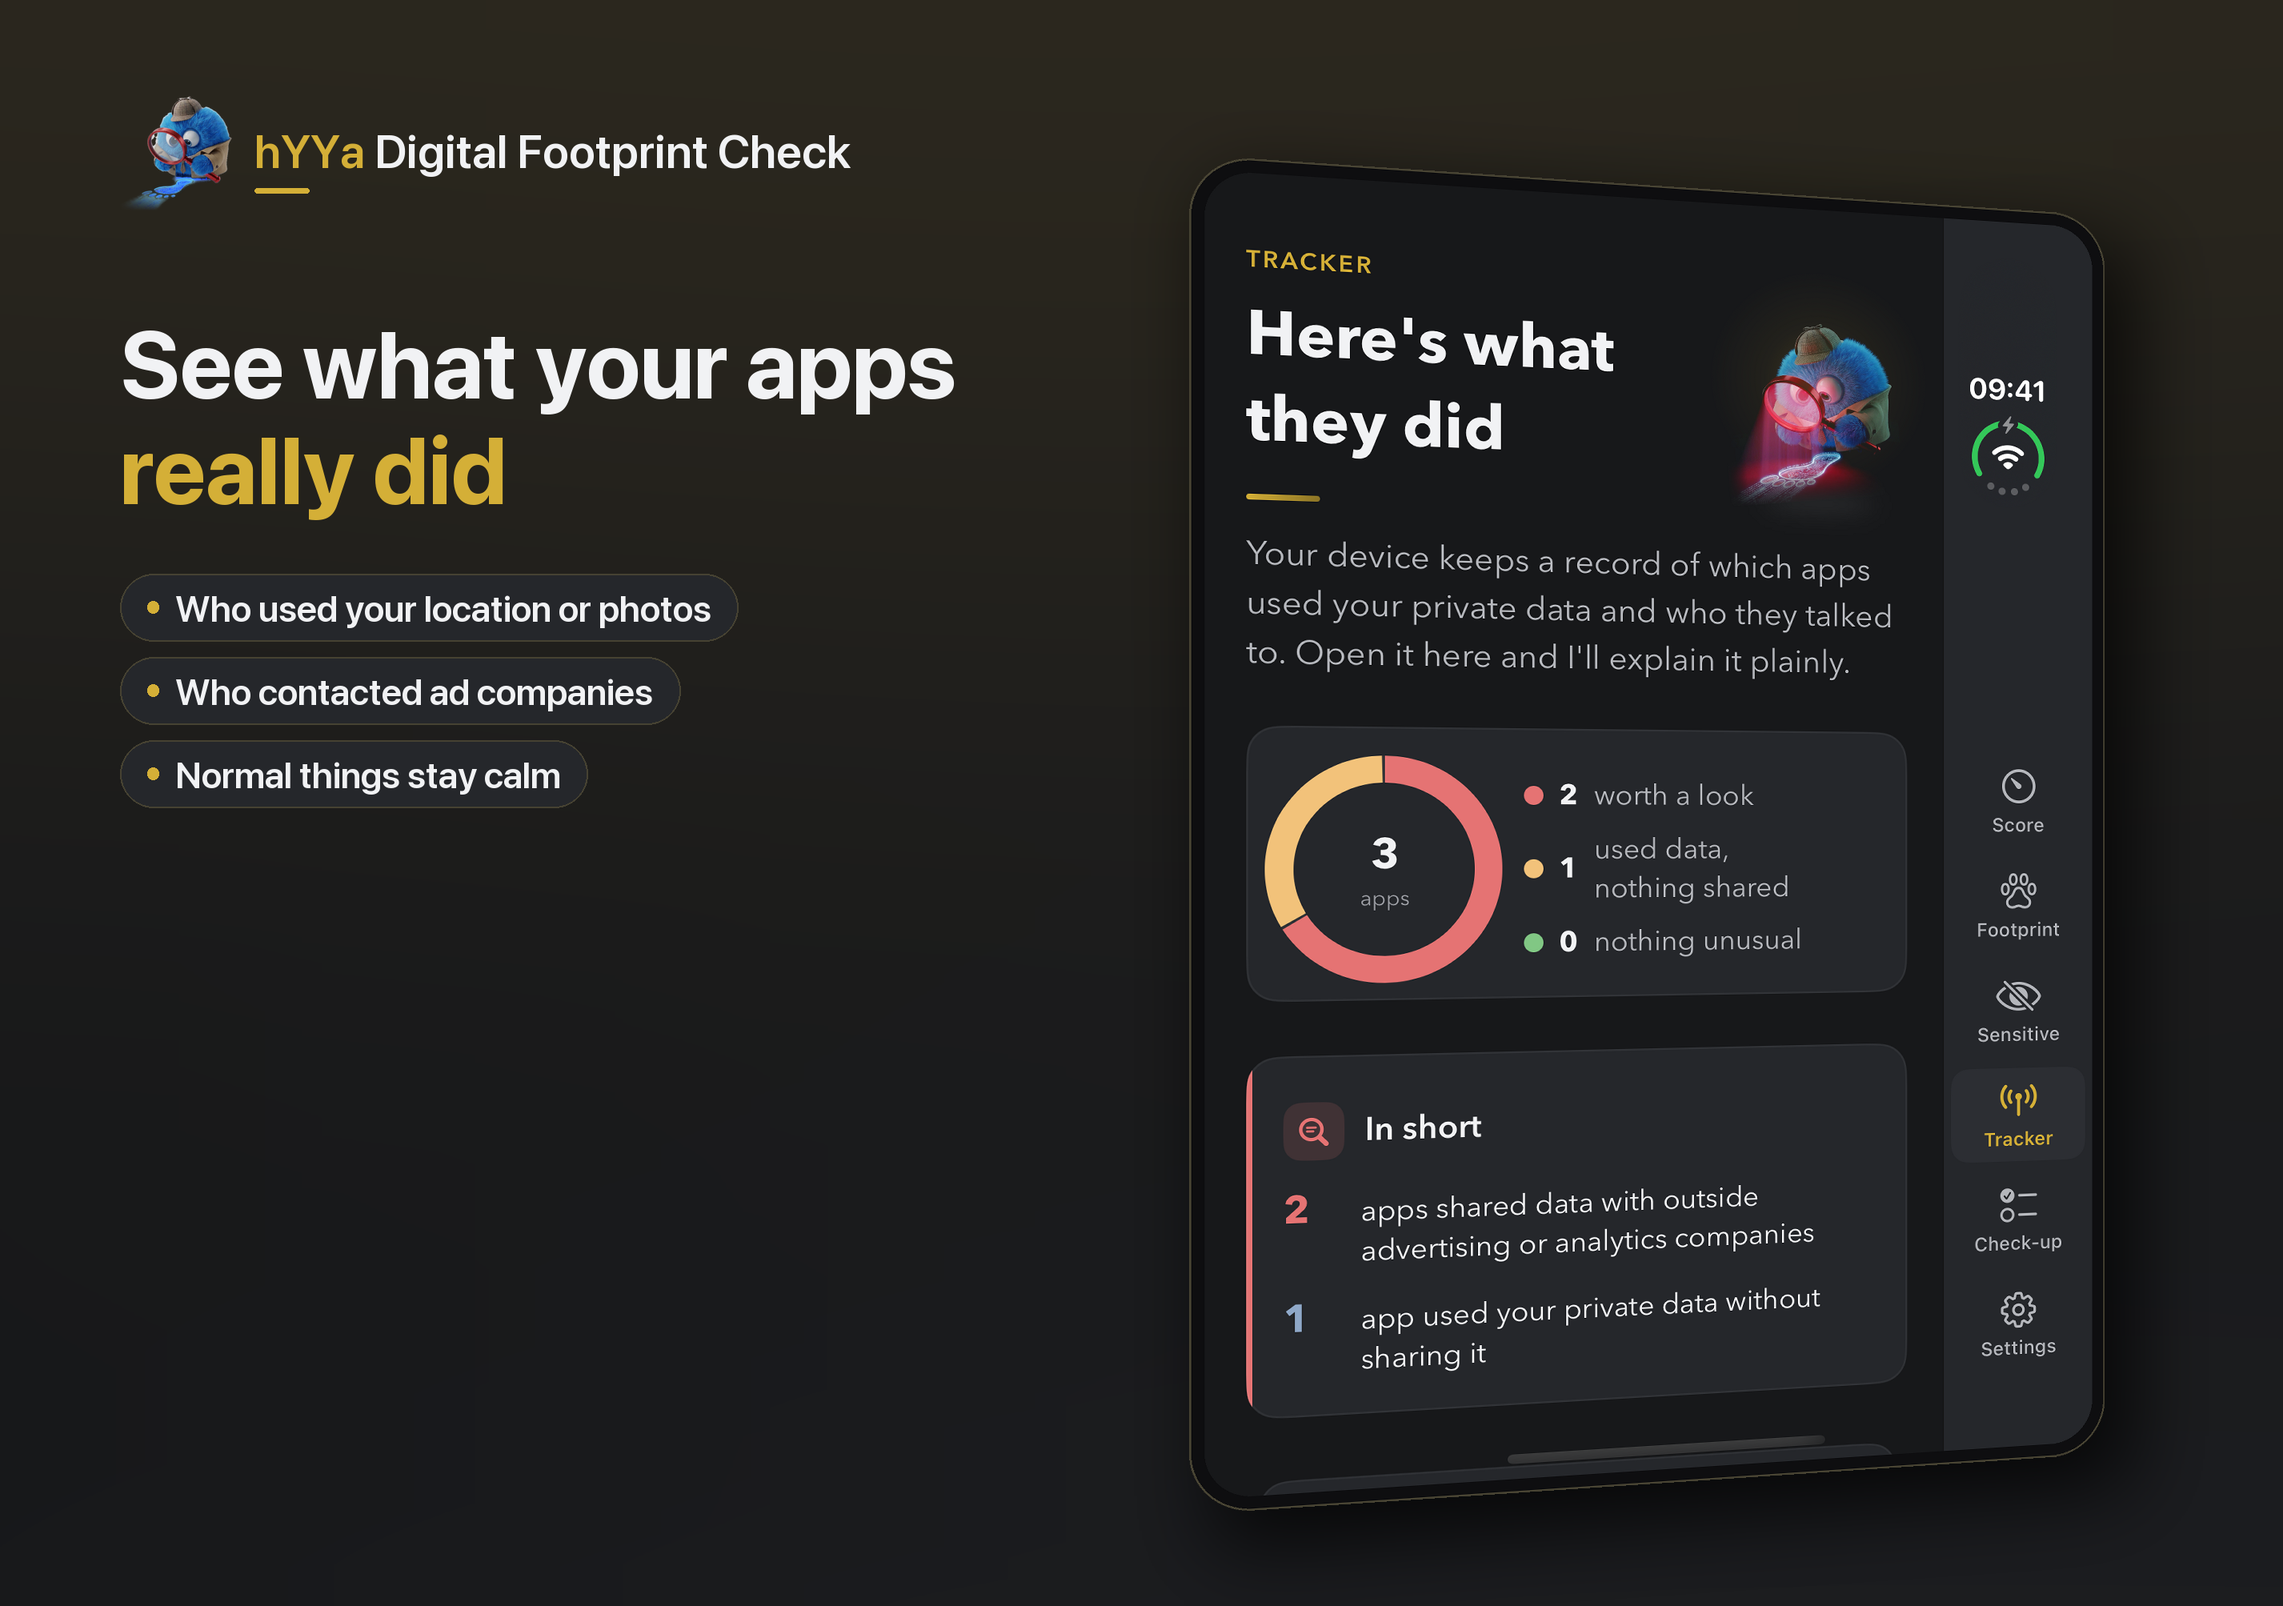
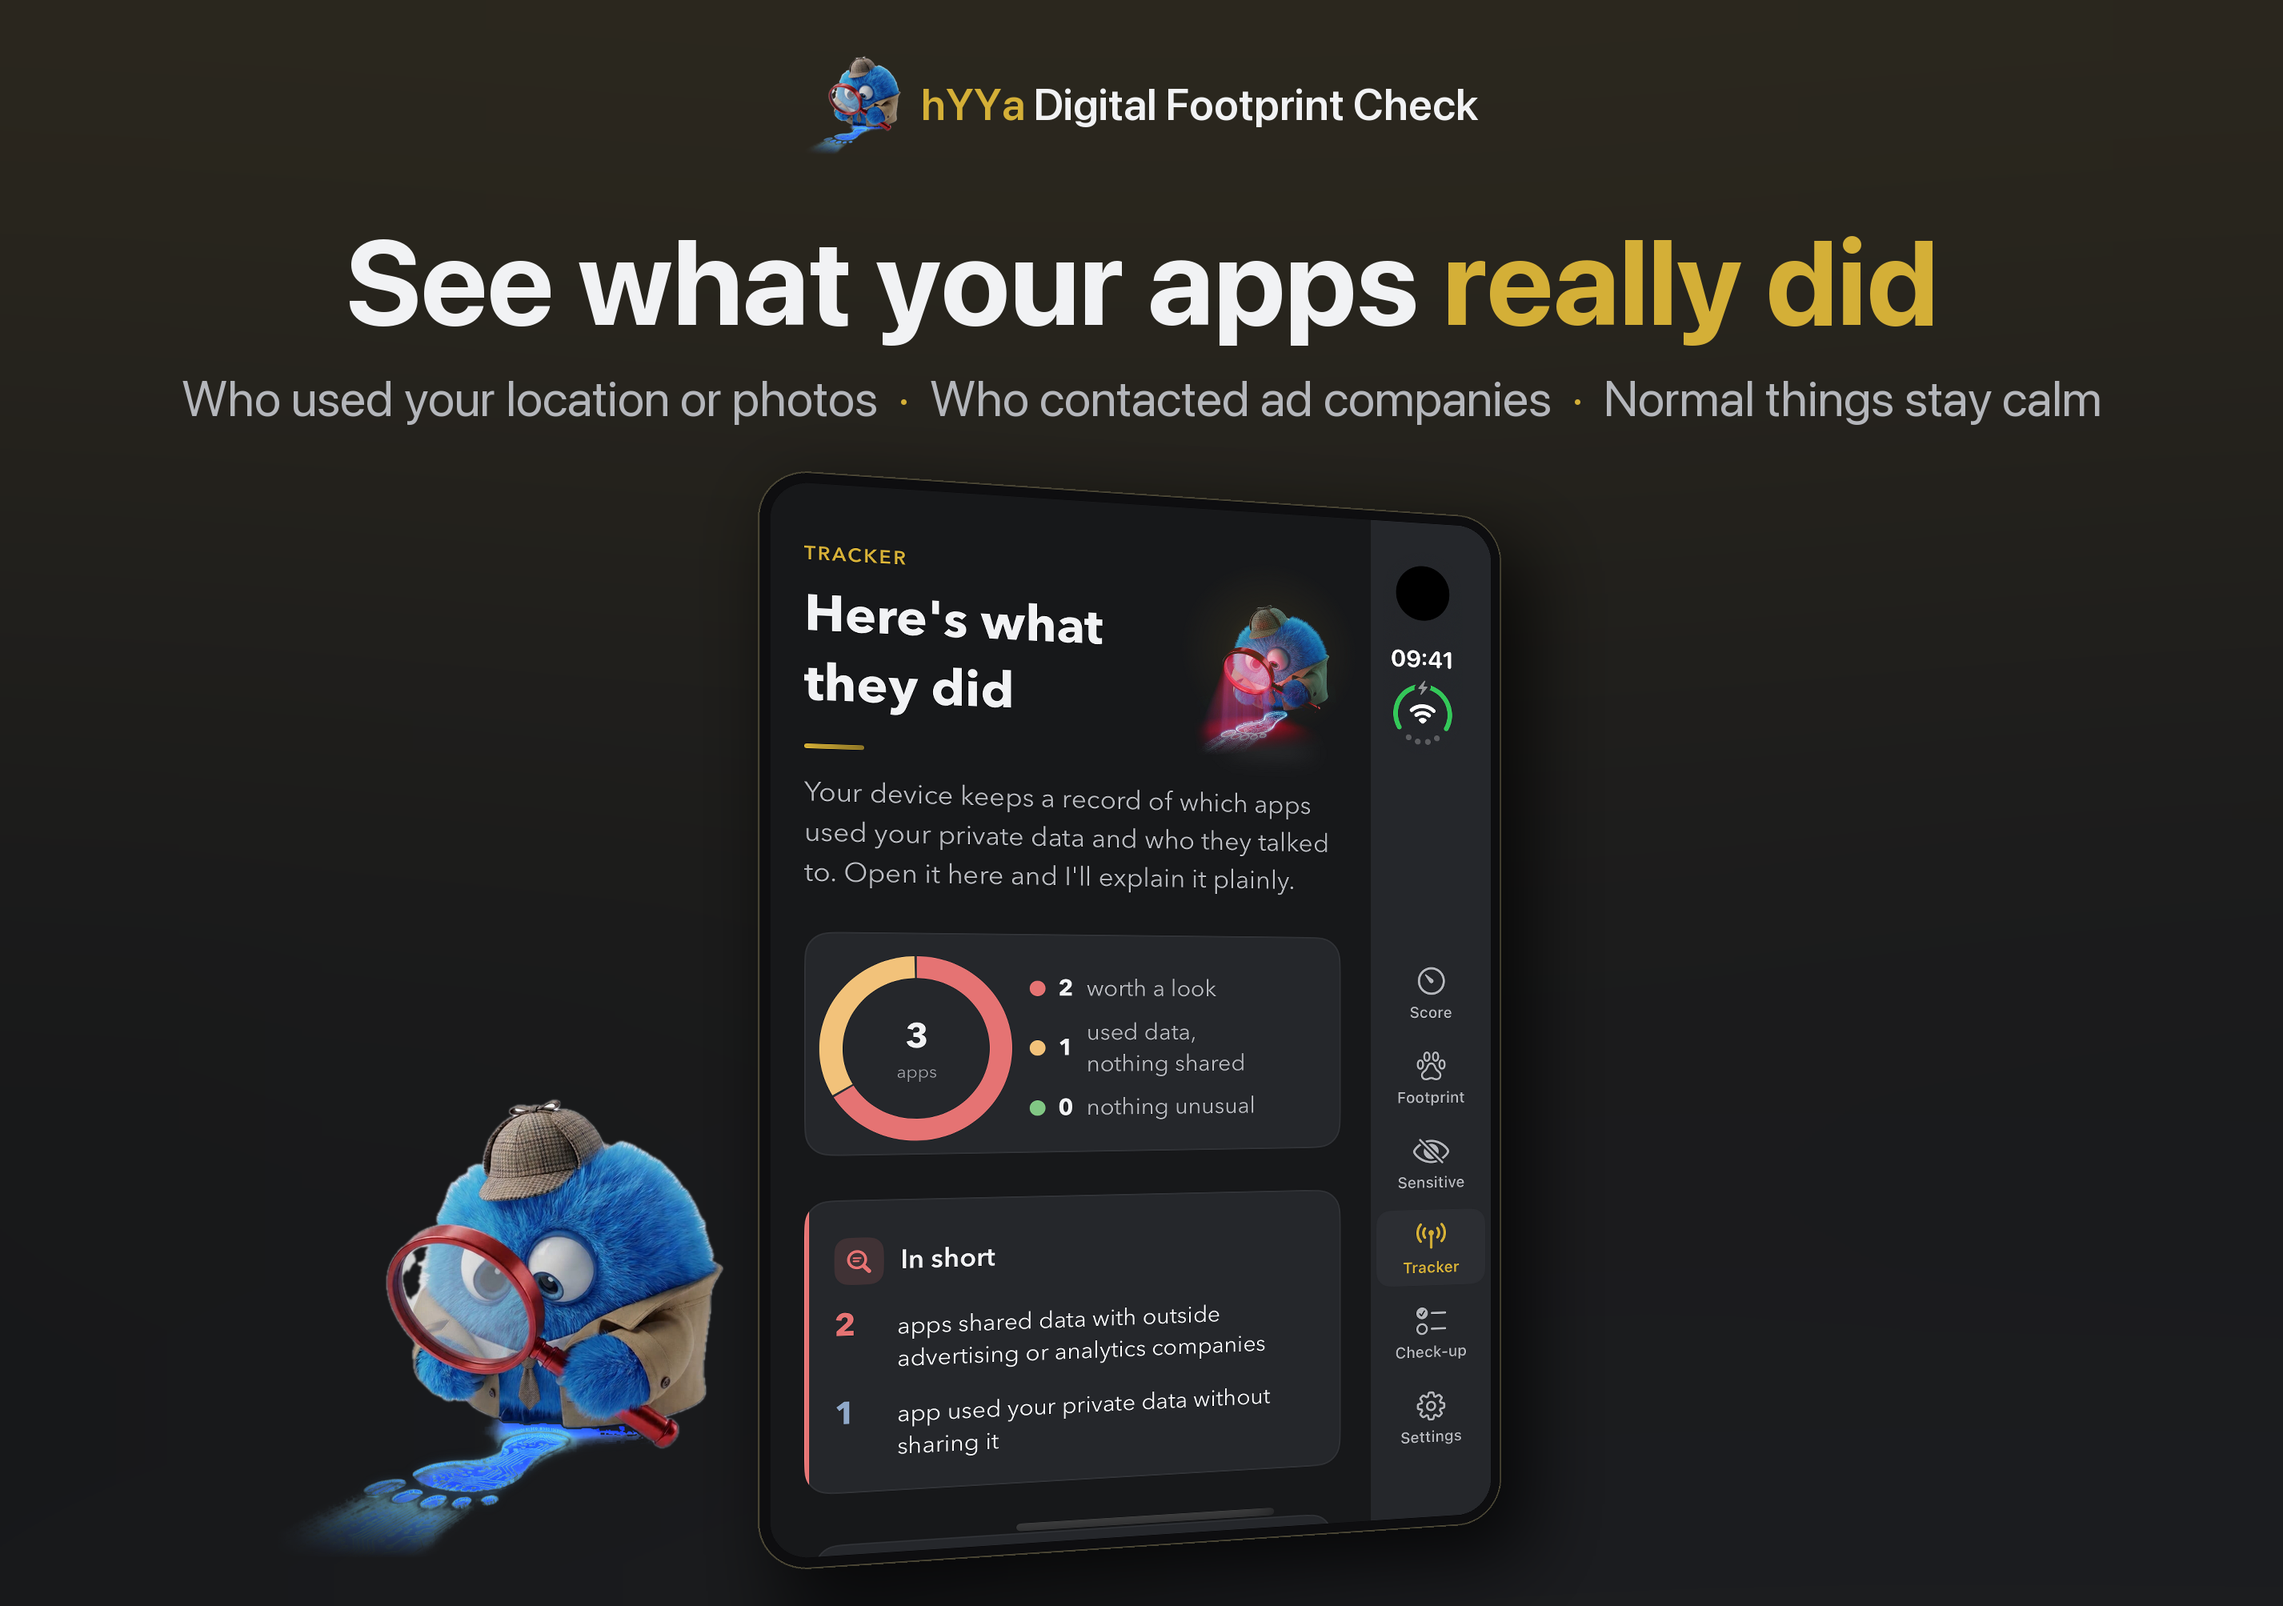
1.1.3 build 48: sale tiles with full names in one row of four or 2x2, App Store sheet only once loaded; Duo slides recomposed (centred headline, large Duo, mascot); FlowCheck scrolls clear of the status bar

diff --git a/App/Sources/UI/SaleNotice.swift b/App/Sources/UI/SaleNotice.swift
@@ -40,10 +40,11 @@ enum SaleNotice {
         title: "Seasonal sale on hYYa apps",
         body: "Other hYYa apps are up to 50% off until 31 December.",
         apps: [
-            App(id: "ink", name: "ink", appStoreID: "6786209046", icon: "SaleInk"),
-            App(id: "folder", name: "Encrypted Folder", appStoreID: "6786135330", icon: "SaleFolder"),
-            App(id: "notes", name: "Encrypted Notes", appStoreID: "6792328099", icon: "SaleNotes"),
-            App(id: "tracker", name: "Subscription Tracker", appStoreID: "6760548018", icon: "SaleTracker"),
+            // Full names, as on the App Store (read 2026-11-23); ids pinned here, never taken from anywhere else.
+            App(id: "ink", name: "hYYa ink", appStoreID: "6786209046", icon: "SaleInk"),
+            App(id: "folder", name: "hYYa Encrypted Folder", appStoreID: "6786135330", icon: "SaleFolder"),
+            App(id: "notes", name: "hYYa Encrypted Notes", appStoreID: "6792328099", icon: "SaleNotes"),
+            App(id: "tracker", name: "hYYa Subscription Tracker", appStoreID: "6760548018", icon: "SaleTracker"),
         ])
 
     static let seenKey = "sale.seen"
@@ -81,31 +82,47 @@ struct SaleNoticeCard: View {
             Text(sale.body)
                 .font(.brand(.subheadline)).foregroundStyle(Brand.textMuted)
                 .fixedSize(horizontal: false, vertical: true)
-            HStack(alignment: .top, spacing: 8) {
-                ForEach(sale.apps) { app in
-                    Button { AppStorePage.open(app.appStoreID) } label: {
-                        VStack(spacing: 8) {
-                            Image(app.icon)
-                                .resizable().scaledToFill()
-                                .frame(width: 52, height: 52)
-                                .clipShape(RoundedRectangle(cornerRadius: 12, style: .continuous))
-                                .accessibilityHidden(true)
-                            Text(app.name)
-                                .font(.brand(.caption, .semibold)).foregroundStyle(Brand.ink)
-                                .multilineTextAlignment(.center)
-                                .lineLimit(2).minimumScaleFactor(0.85)
-                                .fixedSize(horizontal: false, vertical: true)
-                        }
-                        .frame(maxWidth: .infinity)
-                        .padding(.vertical, 12).padding(.horizontal, 4)
-                        .background(RoundedRectangle(cornerRadius: 14, style: .continuous).fill(Color.white.opacity(0.05)))
-                        .contentShape(Rectangle())
-                    }
-                    .buttonStyle(PressableCardStyle())
-                    .accessibilityLabel("\(app.name), opens the App Store")
+            // Exactly four in a row where each tile has room, otherwise two by two: never a lone tile or a half-empty row.
+            ViewThatFits(in: .horizontal) {
+                row(sale.apps, minWidth: 140)
+                VStack(spacing: 8) {
+                    row(Array(sale.apps.prefix(2)), minWidth: 0)
+                    row(Array(sale.apps.dropFirst(2)), minWidth: 0)
                 }
             }
         }
+    }
+
+    /// Tiles side by side, all the same height.
+    private func row(_ apps: [SaleNotice.App], minWidth: CGFloat) -> some View {
+        HStack(alignment: .top, spacing: 8) {
+            ForEach(apps) { app in tile(app).frame(minWidth: minWidth, maxWidth: .infinity, maxHeight: .infinity) }
+        }
+        .fixedSize(horizontal: false, vertical: true)
+    }
+
+    private func tile(_ app: SaleNotice.App) -> some View {
+        Button { AppStorePage.open(app.appStoreID) } label: {
+            VStack(spacing: 8) {
+                Image(app.icon)
+                    .resizable().scaledToFill()
+                    .frame(width: 52, height: 52)
+                    .clipShape(RoundedRectangle(cornerRadius: 12, style: .continuous))
+                    .accessibilityHidden(true)
+                Text(app.name)
+                    .font(.brand(.caption, .semibold)).foregroundStyle(Brand.ink)
+                    .multilineTextAlignment(.center)
+                    .lineLimit(2)
+                    .fixedSize(horizontal: false, vertical: true)
+                Spacer(minLength: 0)
+            }
+            .frame(maxWidth: .infinity, maxHeight: .infinity)
+            .padding(.vertical, 12).padding(.horizontal, 6)
+            .background(RoundedRectangle(cornerRadius: 14, style: .continuous).fill(Color.white.opacity(0.05)))
+            .contentShape(Rectangle())
+        }
+        .buttonStyle(PressableCardStyle())
+        .accessibilityLabel("\(app.name), opens the App Store")
     }
 }
 
@@ -117,10 +134,21 @@ enum AppStorePage {
         guard let scene = UIApplication.shared.connectedScenes.compactMap({ $0 as? UIWindowScene }).first(where: { $0.activationState == .foregroundActive }),
               var top = scene.keyWindow?.rootViewController else { return }
         while let next = top.presentedViewController { top = next }
+        let presenter = top
+        // Load first and show only a page that loaded: presenting first leaves a blank sheet with no way out
+        // when the App Store can't be reached (hYYa Subscription Tracker's finding, 2026-11-23). Otherwise the
+        // App Store app opens the page.
         let store = SKStoreProductViewController()
         store.delegate = Closer.shared
-        store.loadProduct(withParameters: [SKStoreProductParameterITunesItemIdentifier: id])
-        top.present(store, animated: true)
+        store.loadProduct(withParameters: [SKStoreProductParameterITunesItemIdentifier: id]) { loaded, _ in
+            Task { @MainActor in
+                if loaded, presenter.presentedViewController == nil {
+                    presenter.present(store, animated: true)
+                } else if !loaded, let url = URL(string: "https://apps.apple.com/app/id\(id)") {
+                    UIApplication.shared.open(url)
+                }
+            }
+        }
         #else
         if let url = URL(string: "macappstore://apps.apple.com/app/id\(id)") { NSWorkspace.shared.open(url) }
         #endif

diff --git a/App/Sources/Report/PrivacyReport.swift b/App/Sources/Report/PrivacyReport.swift
@@ -398,7 +398,7 @@ enum AppNames {
         "com.example.photoeditor": "Photo Editor", "com.example.weatherplus": "Weather Plus", "com.example.chat": "Chat",
         // hYYa's apps.
         "com.hyya.footprintinspector": "hYYa Digital Footprint Check", "com.hyya.prayerpal": "hYYa PrayerPal", "com.hyya.encryptednotes": "hYYa Encrypted Notes",
-        "com.hyya.encryptedfolder": "hYYa Encrypted Folder", "com.hyya.subscriptionstracker": "hYYa Subscriptions Tracker",
+        "com.hyya.encryptedfolder": "hYYa Encrypted Folder", "com.hyya.subscriptionstracker": "hYYa Subscription Tracker",
         "com.hyya.hyya-ai": "hYYa ai", "com.hyya.ink": "hYYa ink", "com.hyya.anarchybrowser": "hYYa Anarchy Browser",
         // Common apps whose IDs don't say their name.
         "com.yourcompany.PPClient": "PayPal", "com.appspot.scruffapp": "Scruff", "com.investing.app": "Investing.com",

diff --git a/Tests/SaleNoticeTests.swift b/Tests/SaleNoticeTests.swift
@@ -30,5 +30,9 @@ struct SaleNoticeTests {
         #expect(!sale.apps.contains { $0.name.localizedCaseInsensitiveContains("Footprint") })
         #expect(!(sale.title + sale.body).contains("$"))
         #expect(sale.apps.count == 4)
+        // Full App Store names, and ids that never change.
+        #expect(sale.apps.allSatisfy { $0.name.hasPrefix("hYYa ") })
+        #expect(sale.apps.map(\.appStoreID) == ["6786209046", "6786135330", "6792328099", "6760548018"])
+        #expect(!(sale.title + sale.body).contains("http") && !(sale.title + sale.body).contains("@") && !(sale.title + sale.body).contains("<"))
     }
 }

diff --git a/UITests/FlowCheckUITests.swift b/UITests/FlowCheckUITests.swift
@@ -74,7 +74,7 @@ final class FlowCheckUITests: XCTestCase {
         func onScreen() -> Bool {
             guard el.exists else { return false }
             let w = app.windows.firstMatch.frame, f = el.frame
-            return f.minY >= w.minY && f.maxY <= w.maxY - 20
+            return f.minY >= w.minY + 44 && f.maxY <= w.maxY - 20 // clear of the status bar, where a tap scrolls to the top
         }
         while !onScreen() && i < max {
             let w = app.windows.firstMatch

diff --git a/scripts/make-duo-pose-slides.py b/scripts/make-duo-pose-slides.py
@@ -14,7 +14,7 @@ display (1398 x 2034), book = the inner display sideways (2853 x 2007), open = t
 Layout: the mascot and full name, the headline and its highlights on the left; the Duo on the right, turned
 slightly in 3D (the book's two pages angled at the hinge). Copy comes from store/slides.json, by screen.
 """
-import importlib.util, json, sys
+import importlib.util, json, re, sys
 from pathlib import Path
 from PIL import Image, ImageDraw, ImageFilter
 
@@ -108,25 +108,55 @@ def book(canvas, shot, page_w, cx, cy):
     ImageDraw.Draw(canvas).line((cx, cy - h / 2 + drop + 6, cx, cy + h / 2 - drop - 6), fill=(8, 8, 9, 255), width=8)   # the hinge
 
 
+def centred_line(d, parts, y, max_w, size, weight):
+    """One line of (text, colour) parts, centred; shrinks the type until it fits (never wraps)."""
+    while True:
+        f = slides.font(size, weight)
+        w = sum(d.textlength(t, font=f) for t, _ in parts)
+        if w <= max_w or size <= 30:
+            break
+        size -= 2
+    x = (W - w) / 2
+    for t, colour in parts:
+        d.text((x, y), t, font=f, fill=colour)
+        x += d.textlength(t, font=f)
+    return size
+
+
 def make(pose, screen, spec, dirs, mascot):
+    """Owner, 2026-11-23 (hYYa Encrypted Notes' Duo slides as the model): the name, one big centred headline and
+    one line under it; the Duo large and centred below; the mascot standing beside the closed Duo."""
     c = slides.glow_background(W, H).convert("RGBA")
     d = ImageDraw.Draw(c)
-    left = 150
-    m = mascot.resize((140, int(140 * mascot.height / mascot.width)), Image.LANCZOS)
-    c.alpha_composite(m, (left, 120))
-    f = slides.font(58, "Semibold")
-    nx, ny = left + m.width + 28, 120 + m.height // 2 - 38
-    d.text((nx, ny), "hYYa", font=f, fill=slides.SAND)
-    d.text((nx + d.textlength("hYYa ", font=f), ny), "Digital Footprint Check", font=f, fill=slides.INK)
-    d.rounded_rectangle((nx, ny + 82, nx + 68, ny + 88), 3, fill=slides.SAND)
-    col = 1080
-    y = slides.draw_headline(d, spec["headline"], left, 120 + m.height + 120, col, 118)
-    slides.chips(d, spec["highlights"], left, y + 70, col, 46)
+    # The mascot and the full name, centred at the top.
+    m = mascot.resize((120, int(120 * mascot.height / mascot.width)), Image.LANCZOS)
+    f = slides.font(54, "Semibold")
+    name_w = d.textlength("hYYa Digital Footprint Check", font=f)
+    x0 = (W - (m.width + 24 + name_w)) / 2
+    c.alpha_composite(m, (int(x0), 70))
+    ny = 70 + m.height // 2 - 34
+    d.text((x0 + m.width + 24, ny), "hYYa", font=f, fill=slides.SAND)
+    d.text((x0 + m.width + 24 + d.textlength("hYYa ", font=f), ny), "Digital Footprint Check", font=f, fill=slides.INK)
+    # Headline: *starred* words in gold, one line.
+    parts = []
+    for piece in re.split(r"(\*[^*]+\*)", spec["headline"]):
+        if piece:
+            parts.append((piece.strip("*"), slides.SAND if piece.startswith("*") else slides.INK))
+    centred_line(d, parts, 260, W - 300, 150, "Bold")
+    # One line under it: the approved highlights, gold dots between.
+    sub = []
+    for i, h in enumerate(spec["highlights"]):
+        if i:
+            sub.append(("  \u00b7  ", slides.SAND))
+        sub.append((h, slides.MUTED))
+    centred_line(d, sub, 460, W - 400, 64, "Regular")
     shot = Image.open(dirs[pose] / f"{screen}.png")
     if pose == "book":
-        book(c, shot, 760, 1300 + (W - 1300) // 2, H // 2 + 60)
+        book(c, shot, 960, W // 2, 1265)
     else:
-        upright(c, shot, 1700, 1300 + (W - 1300) // 2, H // 2 + 40, crease=pose == "open")
+        upright(c, shot, 1380, W // 2, 1275, crease=pose == "open")
+        big = mascot.resize((560, int(560 * mascot.height / mascot.width)), Image.LANCZOS)
+        c.alpha_composite(big, (W // 2 - 560 - 520, H - big.height - 60))
     return c.convert("RGB")
 
 
